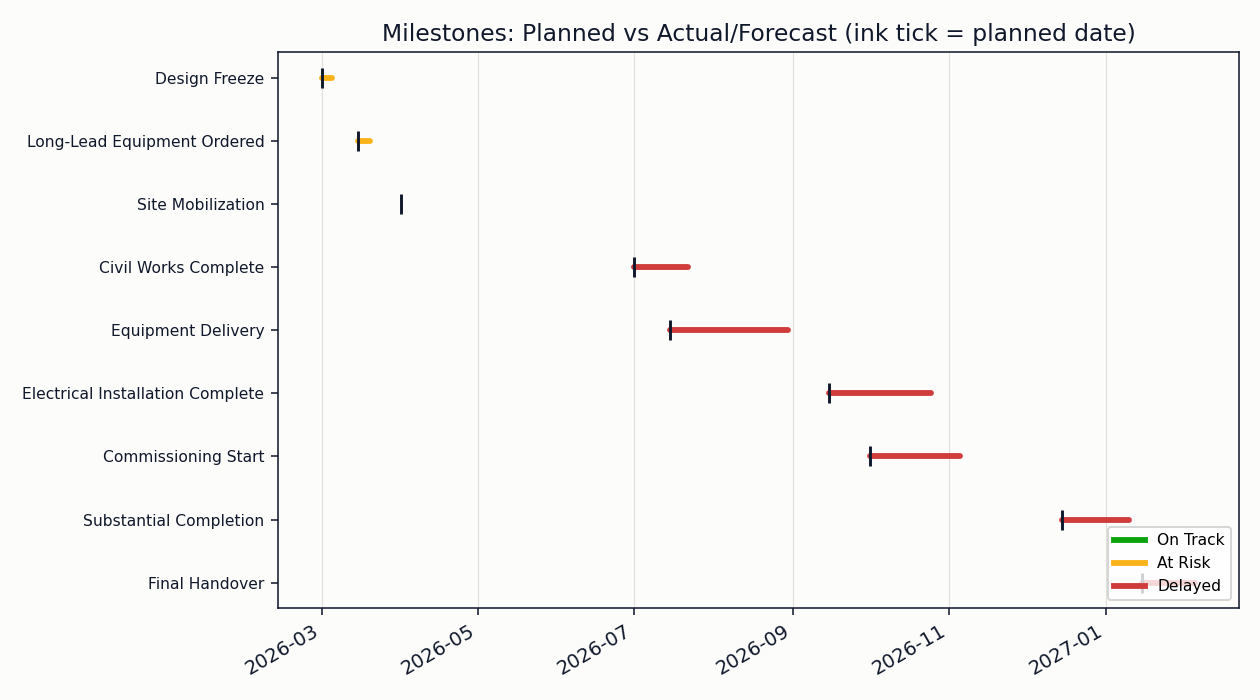
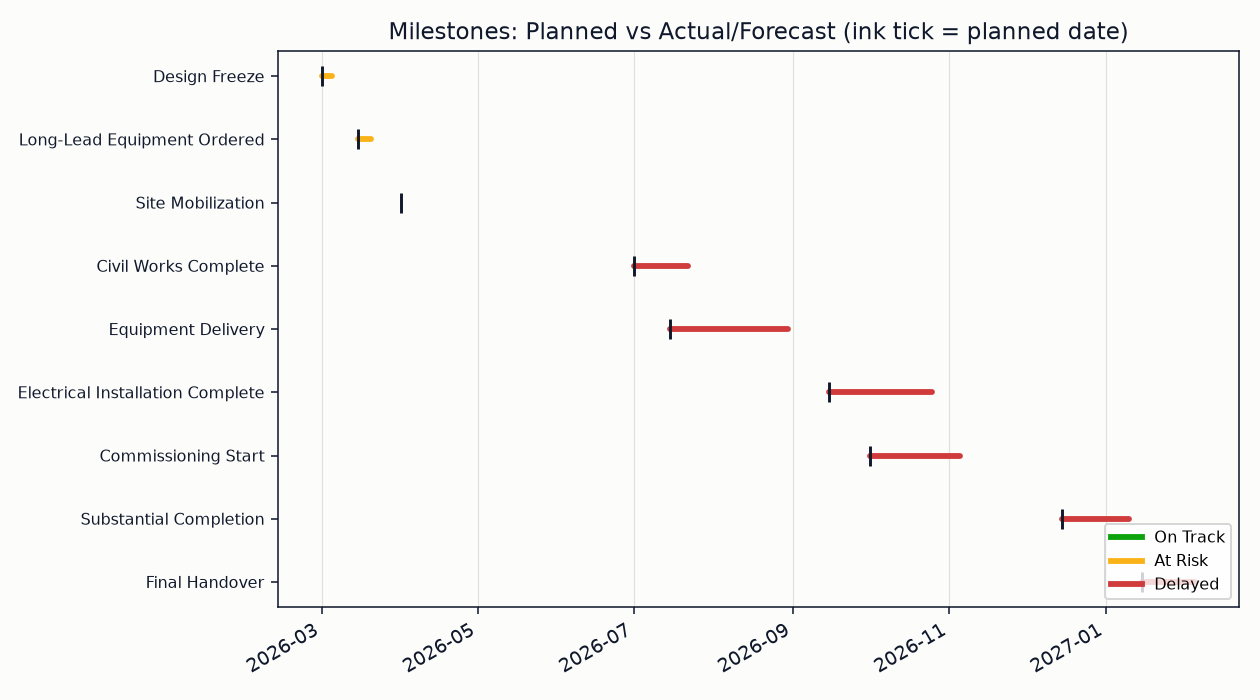
Fix zero-division guard, simplify forecast function, extract chart style
- add_performance_indices: guard zero PV/AC (was raw division, could go
  inf/-inf); this repo is the canonical source other repos vendor from,
  so the guard now matches what was already correct downstream.
- forecast_completion_date: drop the unused milestones param, simplify
  the date math, and return None (not yet forecastable) on zero/NaN SPI
  instead of raising ZeroDivisionError. Callers now render "not yet
  forecastable" instead of crashing on an early status period.
- money(): standardize negative formatting to sign-first ("-$1,000"),
  matching change-control-register's version.
- chart_milestones: replace iterrows()-index-as-plot-position with
  enumerate(itertuples()), removing the implicit dependency on an
  upstream reset_index.
- Extract the duplicated chart chrome helper and color constants into
  src/chart_style.py (this repo is the canonical source for the six
  repos' shared copy).
- requirements.txt: remove numpy (unused; pandas pulls it in
  transitively for .to_numpy(), no direct import needed).

diff --git a/dashboard.py b/dashboard.py
@@ -18,7 +18,7 @@ import matplotlib.pyplot as plt
 import matplotlib.ticker as mticker
 import pandas as pd
 
-from src import metrics
+from src import chart_style, metrics
 
 DATA_DIR = os.path.join(os.path.dirname(__file__), "data")
 ASSETS_DIR = os.path.join(os.path.dirname(__file__), "assets")
@@ -28,38 +28,14 @@ PROJECT_START = "2026-02-01"
 PLANNED_FINISH = "2027-01-31"
 STATUS_DATE = "2026-10-31"
 
-# Standardized chart color system (chart chrome, status scale, categorical series, baseline)
-CHART_BG = "#fcfcfb"
-INK = "#10182b"
-GRID = "#e1e0d9"
-BASELINE = "#3a4d7a"
-SERIES_1 = "#2a78d6"
-SERIES_2 = "#eb6834"
-SERIES_3 = "#1baf7a"
-STATUS_GOOD = "#0ca30c"
-STATUS_WARNING = "#fab219"
-STATUS_CRITICAL = "#d03b3b"
-
-
-def _apply_chrome(fig, axes) -> None:
-    """Apply the standardized chart chrome (background, ink, gridlines) to a figure."""
-    fig.patch.set_facecolor(CHART_BG)
-    if hasattr(axes, "flatten"):
-        axes = axes.flatten().tolist()
-    elif not isinstance(axes, (list, tuple)):
-        axes = [axes]
-    for ax in axes:
-        ax.set_facecolor(CHART_BG)
-        ax.title.set_color(INK)
-        ax.xaxis.label.set_color(INK)
-        ax.yaxis.label.set_color(INK)
-        ax.tick_params(colors=INK)
-        for spine in ax.spines.values():
-            spine.set_color(INK)
-
 
 def money(x: float) -> str:
-    return f"${x:,.0f}"
+    sign = "-" if x < 0 else ""
+    return f"{sign}${abs(x):,.0f}"
+
+
+def _forecast_str(forecast_finish) -> str:
+    return forecast_finish.date().isoformat() if forecast_finish is not None else "not yet forecastable"
 
 
 def print_summary(summary: dict, forecast_finish) -> None:
@@ -83,7 +59,7 @@ def print_summary(summary: dict, forecast_finish) -> None:
           f"({'over' if summary['vac'] < 0 else 'under'} budget)")
     print(f"To-Complete Perf. Index (TCPI): {summary['tcpi']:.2f}")
     print()
-    print(f"Forecast completion (SPI-adjusted): {forecast_finish.date()} "
+    print(f"Forecast completion (SPI-adjusted): {_forecast_str(forecast_finish)} "
           f"(planned: {PLANNED_FINISH})")
 
 
@@ -135,17 +111,17 @@ def print_changes(changes, change_summary: dict) -> None:
 
 def chart_change_register(changes) -> None:
     ranked = changes.sort_values("cost_impact")
-    colors = [STATUS_GOOD if s == "Approved" else STATUS_WARNING for s in ranked["status"]]
+    colors = [chart_style.STATUS_GOOD if s == "Approved" else chart_style.STATUS_WARNING for s in ranked["status"]]
     fig, ax = plt.subplots(figsize=(9, 5))
     ax.barh(ranked["change_id"] + " - " + ranked["category"], ranked["cost_impact"], color=colors)
-    ax.axvline(0, color=INK, linewidth=0.8, alpha=0.6)
+    ax.axvline(0, color=chart_style.INK, linewidth=0.8, alpha=0.6)
     ax.set_xlabel("Cost impact ($)")
     ax.set_title("Change Register: Cost Impact by Change")
-    handles = [plt.Rectangle((0, 0), 1, 1, color=STATUS_GOOD, label="Approved"),
-               plt.Rectangle((0, 0), 1, 1, color=STATUS_WARNING, label="Pending")]
+    handles = [plt.Rectangle((0, 0), 1, 1, color=chart_style.STATUS_GOOD, label="Approved"),
+               plt.Rectangle((0, 0), 1, 1, color=chart_style.STATUS_WARNING, label="Pending")]
     ax.legend(handles=handles, loc="lower right", fontsize=8)
-    ax.grid(color=GRID, linewidth=0.6, axis="x")
-    _apply_chrome(fig, ax)
+    ax.grid(color=chart_style.GRID, linewidth=0.6, axis="x")
+    chart_style.apply_chrome(fig, ax)
     fig.tight_layout()
     fig.savefig(os.path.join(ASSETS_DIR, "change_register.png"), dpi=140)
     plt.close(fig)
@@ -174,7 +150,7 @@ def write_report_markdown(summary: dict, forecast_finish, milestones, risks, cha
         f"({'over' if summary['vac'] < 0 else 'under'} budget) |",
         f"| To-Complete Performance Index (TCPI) | {summary['tcpi']:.2f} |",
         "",
-        f"**Forecast completion (SPI-adjusted):** {forecast_finish.date()} "
+        f"**Forecast completion (SPI-adjusted):** {_forecast_str(forecast_finish)} "
         f"(planned: {PLANNED_FINISH})",
         "",
         "## Milestones",
@@ -230,20 +206,21 @@ def write_report_markdown(summary: dict, forecast_finish, milestones, risks, cha
 def chart_s_curve(ts, summary, forecast_finish) -> None:
     fig, ax = plt.subplots(figsize=(9, 5.5))
     ax.plot(ts["period_label"].to_numpy(), ts["planned_value_cum"].to_numpy(),
-            label="Planned Value (PV)", color=SERIES_1, linewidth=2)
+            label="Planned Value (PV)", color=chart_style.SERIES_1, linewidth=2)
     actuals = metrics.actuals_only(ts)
     ax.plot(actuals["period_label"].to_numpy(), actuals["earned_value_cum"].to_numpy(),
-            label="Earned Value (EV)", color=SERIES_2, linewidth=2, marker="o", markersize=4)
+            label="Earned Value (EV)", color=chart_style.SERIES_2, linewidth=2, marker="o", markersize=4)
     ax.plot(actuals["period_label"].to_numpy(), actuals["actual_cost_cum"].to_numpy(),
-            label="Actual Cost (AC)", color=SERIES_3, linewidth=2, marker="o", markersize=4)
-    ax.scatter([forecast_finish], [BAC], color=SERIES_3, marker="x", s=80,
-               label=f"Forecast completion cost (EAC {money(summary['eac'])})", zorder=5)
+            label="Actual Cost (AC)", color=chart_style.SERIES_3, linewidth=2, marker="o", markersize=4)
+    if forecast_finish is not None:
+        ax.scatter([forecast_finish], [BAC], color=chart_style.SERIES_3, marker="x", s=80,
+                   label=f"Forecast completion cost (EAC {money(summary['eac'])})", zorder=5)
     ax.set_title("Cost & Schedule Performance (S-Curve)")
     ax.set_ylabel("Cumulative value ($)")
     ax.yaxis.set_major_formatter(mticker.FuncFormatter(lambda x, _: f"${x/1000:.0f}k"))
     ax.legend(loc="upper left", fontsize=8)
-    ax.grid(color=GRID, linewidth=0.6)
-    _apply_chrome(fig, ax)
+    ax.grid(color=chart_style.GRID, linewidth=0.6)
+    chart_style.apply_chrome(fig, ax)
     fig.autofmt_xdate()
     fig.tight_layout()
     fig.savefig(os.path.join(ASSETS_DIR, "s_curve.png"), dpi=140)
@@ -254,15 +231,15 @@ def chart_spi_cpi_trend(ts) -> None:
     scored = metrics.add_performance_indices(metrics.actuals_only(ts))
     fig, ax = plt.subplots(figsize=(9, 4.5))
     ax.plot(scored["period_label"].to_numpy(), scored["spi"].to_numpy(), label="SPI",
-            color=SERIES_1, linewidth=2, marker="o")
+            color=chart_style.SERIES_1, linewidth=2, marker="o")
     ax.plot(scored["period_label"].to_numpy(), scored["cpi"].to_numpy(), label="CPI",
-            color=SERIES_2, linewidth=2, marker="o")
-    ax.axhline(1.0, color=BASELINE, linestyle="--", linewidth=1)
+            color=chart_style.SERIES_2, linewidth=2, marker="o")
+    ax.axhline(1.0, color=chart_style.BASELINE, linestyle="--", linewidth=1)
     ax.set_title("SPI / CPI Trend")
     ax.set_ylabel("Index (1.0 = on plan)")
     ax.legend(fontsize=8)
-    ax.grid(color=GRID, linewidth=0.6)
-    _apply_chrome(fig, ax)
+    ax.grid(color=chart_style.GRID, linewidth=0.6)
+    chart_style.apply_chrome(fig, ax)
     fig.autofmt_xdate()
     fig.tight_layout()
     fig.savefig(os.path.join(ASSETS_DIR, "spi_cpi_trend.png"), dpi=140)
@@ -270,22 +247,22 @@ def chart_spi_cpi_trend(ts) -> None:
 
 
 def chart_milestones(milestones) -> None:
-    colors = {"On Track": STATUS_GOOD, "At Risk": STATUS_WARNING, "Delayed": STATUS_CRITICAL}
+    colors = {"On Track": chart_style.STATUS_GOOD, "At Risk": chart_style.STATUS_WARNING,
+              "Delayed": chart_style.STATUS_CRITICAL}
     fig, ax = plt.subplots(figsize=(9, 5))
-    y = range(len(milestones))
-    for i, row in milestones.iterrows():
-        xs = pd.to_datetime([row["planned_date"], row["current_date"]]).to_numpy()
-        ax.plot(xs, [i, i], color=colors[row["milestone_status"]], linewidth=3,
+    for i, row in enumerate(milestones.itertuples()):
+        xs = pd.to_datetime([row.planned_date, row.current_date]).to_numpy()
+        ax.plot(xs, [i, i], color=colors[row.milestone_status], linewidth=3,
                 solid_capstyle="round")
-        ax.scatter(row["planned_date"], i, color=INK, marker="|", s=100, zorder=3)
-    ax.set_yticks(list(y))
+        ax.scatter(row.planned_date, i, color=chart_style.INK, marker="|", s=100, zorder=3)
+    ax.set_yticks(range(len(milestones)))
     ax.set_yticklabels(milestones["milestone"], fontsize=8)
     ax.invert_yaxis()
     ax.set_title("Milestones: Planned vs Actual/Forecast (ink tick = planned date)")
     handles = [plt.Line2D([0], [0], color=c, linewidth=3, label=s) for s, c in colors.items()]
     ax.legend(handles=handles, loc="lower right", fontsize=8)
-    ax.grid(color=GRID, linewidth=0.6, axis="x")
-    _apply_chrome(fig, ax)
+    ax.grid(color=chart_style.GRID, linewidth=0.6, axis="x")
+    chart_style.apply_chrome(fig, ax)
     fig.autofmt_xdate()
     fig.tight_layout()
     fig.savefig(os.path.join(ASSETS_DIR, "milestones.png"), dpi=140)
@@ -316,13 +293,13 @@ def chart_risk_matrix(risks) -> None:
     active_risks = risks[open_mask & ~risks["overdue"]]
     closed_risks = risks[~open_mask]
     ax.scatter(active_risks["plot_probability"].to_numpy(), active_risks["plot_impact"].to_numpy(),
-               s=(active_risks["exposure"] * 60).to_numpy(), color=STATUS_WARNING, alpha=0.7,
+               s=(active_risks["exposure"] * 60).to_numpy(), color=chart_style.STATUS_WARNING, alpha=0.7,
                edgecolor="white", label="Open / Mitigating")
     ax.scatter(overdue_risks["plot_probability"].to_numpy(), overdue_risks["plot_impact"].to_numpy(),
-               s=(overdue_risks["exposure"] * 60).to_numpy(), color=STATUS_CRITICAL, alpha=0.7,
+               s=(overdue_risks["exposure"] * 60).to_numpy(), color=chart_style.STATUS_CRITICAL, alpha=0.7,
                edgecolor="white", label="Open / Mitigation Overdue")
     ax.scatter(closed_risks["plot_probability"].to_numpy(), closed_risks["plot_impact"].to_numpy(),
-               s=(closed_risks["exposure"] * 60).to_numpy(), color=STATUS_GOOD, alpha=0.5,
+               s=(closed_risks["exposure"] * 60).to_numpy(), color=chart_style.STATUS_GOOD, alpha=0.5,
                edgecolor="white", label="Closed")
     for _, row in risks.iterrows():
         ax.annotate(row["risk_id"], (row["plot_probability"], row["plot_impact"]),
@@ -333,8 +310,8 @@ def chart_risk_matrix(risks) -> None:
     ax.set_ylabel("Impact (1-5)")
     ax.set_title("Risk Matrix (bubble size = exposure)")
     ax.legend(loc="upper left", fontsize=8)
-    ax.grid(color=GRID, linewidth=0.6)
-    _apply_chrome(fig, ax)
+    ax.grid(color=chart_style.GRID, linewidth=0.6)
+    chart_style.apply_chrome(fig, ax)
     fig.tight_layout()
     fig.savefig(os.path.join(ASSETS_DIR, "risk_matrix.png"), dpi=140)
     plt.close(fig)
@@ -349,9 +326,7 @@ def main() -> None:
     changes = metrics.load_change_register(os.path.join(DATA_DIR, "change_register.csv"))
 
     summary = metrics.project_summary(ts, BAC)
-    forecast_finish = metrics.forecast_completion_date(
-        milestones, summary["spi"], PROJECT_START, PLANNED_FINISH
-    )
+    forecast_finish = metrics.forecast_completion_date(summary["spi"], PROJECT_START, PLANNED_FINISH)
     change_summary = metrics.change_impact_summary(changes, BAC)
 
     print_summary(summary, forecast_finish)

diff --git a/src/metrics.py b/src/metrics.py
@@ -21,8 +21,11 @@ def add_performance_indices(df: pd.DataFrame) -> pd.DataFrame:
     out = df.copy()
     out["sv"] = out["earned_value_cum"] - out["planned_value_cum"]
     out["cv"] = out["earned_value_cum"] - out["actual_cost_cum"]
-    out["spi"] = out["earned_value_cum"] / out["planned_value_cum"]
-    out["cpi"] = out["earned_value_cum"] / out["actual_cost_cum"]
+    # Guard zero PV/AC the same way project_summary guards zero (bac - ac) for
+    # tcpi: a zero denominator can't yield a meaningful index, so report NaN
+    # instead of letting it silently become inf/-inf.
+    out["spi"] = out["earned_value_cum"] / out["planned_value_cum"].replace(0, float("nan"))
+    out["cpi"] = out["earned_value_cum"] / out["actual_cost_cum"].replace(0, float("nan"))
     return out
 
 
@@ -101,12 +104,15 @@ def change_impact_summary(changes: pd.DataFrame, bac: float) -> dict:
     }
 
 
-def forecast_completion_date(
-    milestones: pd.DataFrame, spi: float, project_start: str, planned_finish: str
-) -> pd.Timestamp:
-    """Simple SPI-based forecast: stretch remaining planned duration by 1/SPI."""
+def forecast_completion_date(spi: float, project_start: str, planned_finish: str):
+    """Simple SPI-based forecast: stretch remaining planned duration by 1/SPI.
+
+    Returns None (not yet forecastable) if SPI is zero/NaN, e.g. the first
+    reported period has no earned value yet, rather than raising
+    ZeroDivisionError.
+    """
+    if not spi or pd.isna(spi):
+        return None
     start = pd.Timestamp(project_start)
     planned_end = pd.Timestamp(planned_finish)
-    total_planned_days = (planned_end - start).days
-    forecast_days = total_planned_days / spi
-    return start + pd.Timedelta(days=round(forecast_days))
+    return start + (planned_end - start) / spi

diff --git a/src/chart_style.py b/src/chart_style.py
@@ -1,0 +1,41 @@
+"""Standardized chart color system and chrome (chart chrome, status scale, baseline/reference).
+
+This module is identical, byte-for-byte, across all six repos in the
+github.com/alexc-hue project-controls toolkit (schedule-health-analyzer,
+project-controls-dashboard, change-control-register, risk-trend-tracker,
+project-controls-reporting-engine, recovery-scenario-planner). Each repo
+carries its own copy so it stays independently cloneable and runnable
+without pulling in the others, the same rationale the vendored engines
+already document. This repo is the canonical source; if the palette
+changes, update it here first and re-sync the rest.
+"""
+
+from __future__ import annotations
+
+CHART_BG = "#fcfcfb"
+INK = "#10182b"
+GRID = "#e1e0d9"
+BASELINE = "#3a4d7a"
+SERIES_1 = "#2a78d6"
+SERIES_2 = "#eb6834"
+SERIES_3 = "#1baf7a"
+STATUS_GOOD = "#0ca30c"
+STATUS_WARNING = "#fab219"
+STATUS_CRITICAL = "#d03b3b"
+
+
+def apply_chrome(fig, axes) -> None:
+    """Apply the standardized chart chrome (background, ink, gridlines) to a figure."""
+    fig.patch.set_facecolor(CHART_BG)
+    if hasattr(axes, "flatten"):
+        axes = axes.flatten().tolist()
+    elif not isinstance(axes, (list, tuple)):
+        axes = [axes]
+    for ax in axes:
+        ax.set_facecolor(CHART_BG)
+        ax.title.set_color(INK)
+        ax.xaxis.label.set_color(INK)
+        ax.yaxis.label.set_color(INK)
+        ax.tick_params(colors=INK)
+        for spine in ax.spines.values():
+            spine.set_color(INK)

diff --git a/assets/report.md b/assets/report.md
@@ -9,16 +9,16 @@
 | Planned Value (PV) | $1,050,000 |
 | Earned Value (EV) | $930,000 |
 | Actual Cost (AC) | $1,080,000 |
-| Schedule Variance (SV) | $-120,000 (-11.4%) |
-| Cost Variance (CV) | $-150,000 (-16.1%) |
+| Schedule Variance (SV) | -$120,000 (-11.4%) |
+| Cost Variance (CV) | -$150,000 (-16.1%) |
 | SPI | 0.89 |
 | CPI | 0.86 |
 | Estimate at Completion (EAC) | $1,393,548 |
 | Estimate to Complete (ETC) | $313,548 |
-| Variance at Completion (VAC) | $-193,548 (over budget) |
+| Variance at Completion (VAC) | -$193,548 (over budget) |
 | To-Complete Performance Index (TCPI) | 2.25 |
 
-**Forecast completion (SPI-adjusted):** 2027-03-19 (planned: 2027-01-31)
+**Forecast completion (SPI-adjusted):** 2027-03-18 (planned: 2027-01-31)
 
 ## Milestones
 
@@ -58,7 +58,7 @@
 | CH05 | $15,000 | +4d | Client Request | Pending | Extended commissioning support requested by client operations team |
 | CH06 | $9,000 | +2d | Design | Approved | Additional cable tray due to updated cable schedule |
 | CH08 | $6,000 | +0d | Client Request | Approved | Upgrade SCADA historian license tier for extended data retention |
-| CH04 | $-22,000 | +0d | Scope | Approved | Scope reduction: remove redundant spare feeder bay |
+| CH04 | -$22,000 | +0d | Scope | Approved | Scope reduction: remove redundant spare feeder bay |
 
 **Approved changes:** $88,000 (+25 days)  
 **Revised budget (BAC + approved changes):** $1,288,000  
